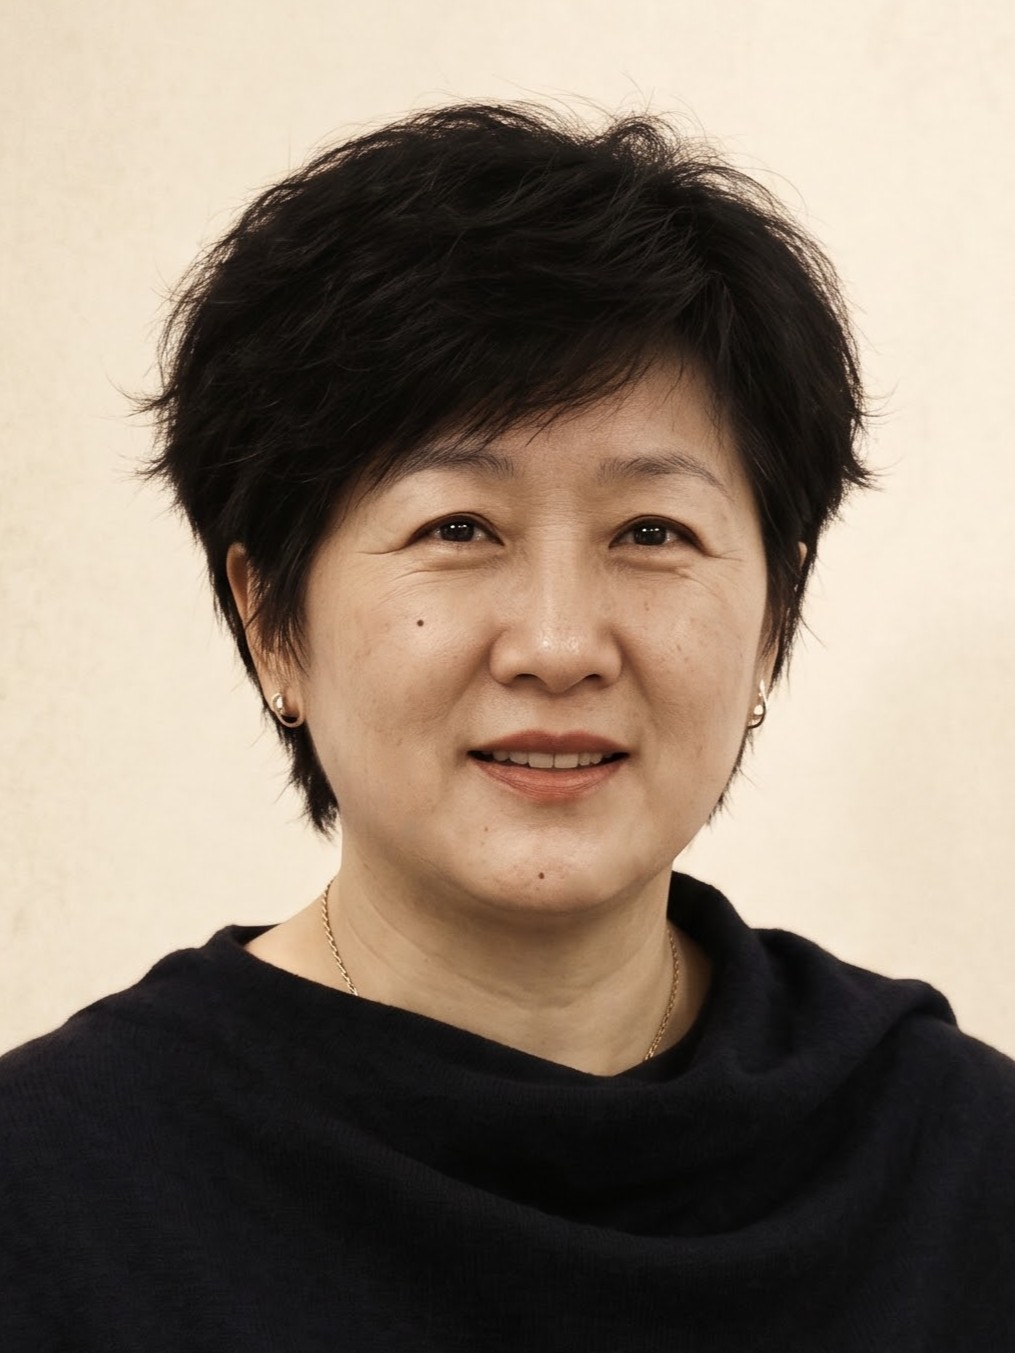
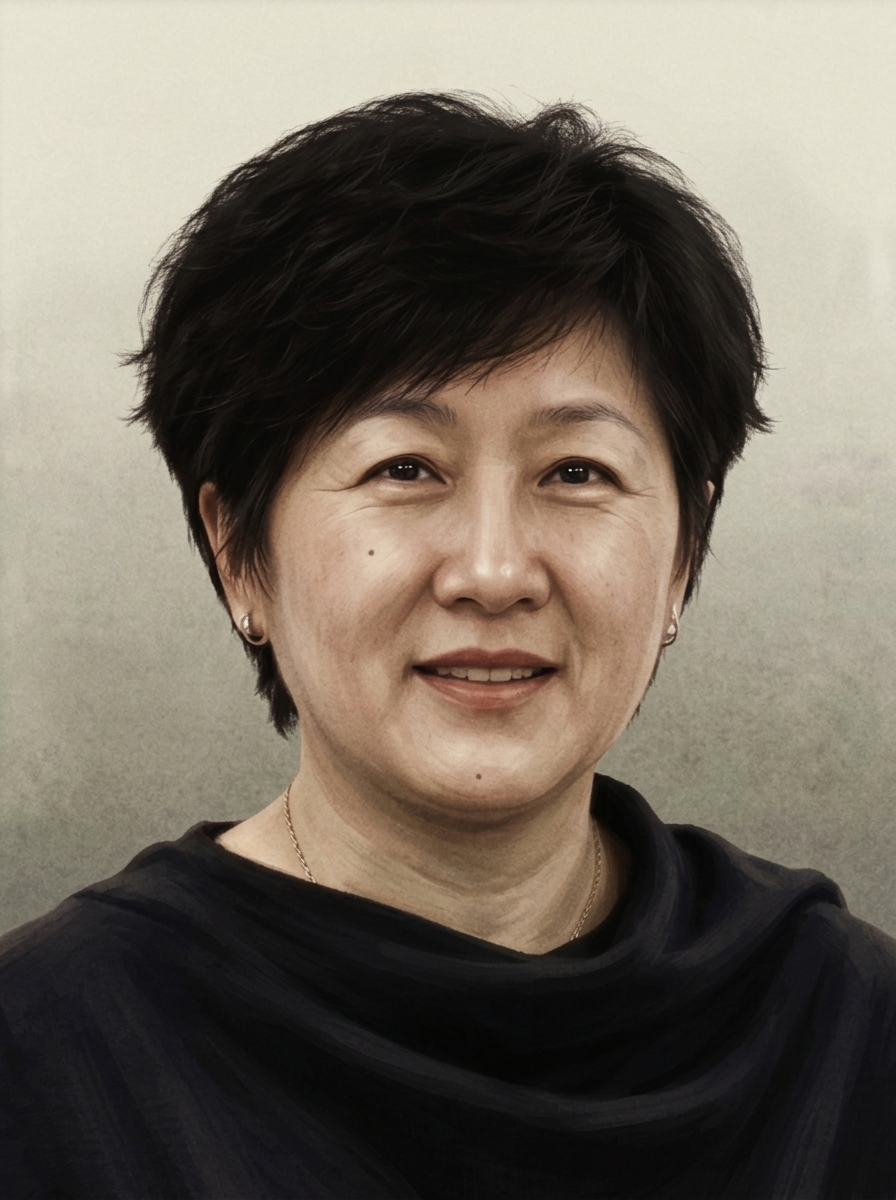
art: integrate updated portraits and campus loading artwork

diff --git a/src/config/localPortraits.ts b/src/config/localPortraits.ts
@@ -1,6 +1,6 @@
 const fengAnbao = new URL('../../art/人像/封安宝.png', import.meta.url).href;
 const wangZhaokai = new URL('../../art/人像/王照凯4.png', import.meta.url).href;
-const panRenyue = new URL('../../art/人像/潘仁越5.png', import.meta.url).href;
+const panRenyue = new URL('../../art/人像/潘仁越.jpg', import.meta.url).href;
 const luBohan = new URL('../../art/人像/吕波汉.png', import.meta.url).href;
 const gouxiong = new URL('../../art/人像/狗熊2.png', import.meta.url).href;
 const haoBang = new URL('../../art/人像/豪邦.png', import.meta.url).href;
@@ -13,10 +13,10 @@ const zhouHongbing = new URL('../../art/人像/周鸿斌.png', import.meta.url).
 const xuWenfeng = new URL('../../art/人像/许文峰.png', import.meta.url).href;
 const caiJuntai = new URL('../../art/人像/蔡君泰.png', import.meta.url).href;
 const liXutong = new URL('../../art/人像/黎旭同.png', import.meta.url).href;
-const chenDong = new URL('../../art/人像/陈栋.jpeg', import.meta.url).href;
+const chenDong = new URL('../../art/人像/陈栋3.jpg', import.meta.url).href;
 const zhouChen = new URL('../../art/人像/周晨.jpg', import.meta.url).href;
 const youGuanglei = new URL('../../art/人像/尤光雷.jpg', import.meta.url).href;
-const jingZhen = new URL('../../art/人像/靖珍.jpg', import.meta.url).href;
+const jingZhen = new URL('../../art/人像/靖珍2.jpg', import.meta.url).href;
 const zhangChun = new URL('../../art/人像/张春.jpg', import.meta.url).href;
 const classified = new URL('../assets/portrait-classified.svg', import.meta.url).href;
 const jidiPartner = new URL('../assets/portraits/jidi-partner.svg', import.meta.url).href;
@@ -26,6 +26,7 @@ const jidiAnalyst = new URL('../assets/portraits/jidi-analyst.svg', import.meta.
 
 /** 本地肖像是人物身份的唯一来源；未核实身份的条目显示档案占位。 */
 export const LOCAL_PORTRAIT_URLS: Record<string, string> = {
+  leader_chen_dong: chenDong,
   leader_feng_anbao: fengAnbao,
   leader_wang_zhaokai: wangZhaokai,
   leader_pan_renyue: panRenyue,

diff --git a/tests/artGallery.test.ts b/tests/artGallery.test.ts
@@ -74,7 +74,7 @@ test('old save route history and existing ending archive retain earned artwork',
 
 test('unlock is once per device across saves, new games and repeated React effects', () => {
   const storage = memoryStorage();
-  assert.equal(unlockEarnedArtwork(progress(), storage, 1000).length, 4);
+  assert.equal(unlockEarnedArtwork(progress(), storage, 1000).length, ARTWORKS.filter(work => work.opening).length);
   assert.equal(unlockEarnedArtwork(progress(), storage, 2000).length, 0);
   assert.deepEqual(unlockEarnedArtwork(progress({ currentFocusTree: 'treeB' }), storage, 3000).map(work => work.name), ['特级教师', '保温杯与红批']);
   assert.equal(unlockEarnedArtwork(progress(), storage, 4000).length, 0);
@@ -83,7 +83,7 @@ test('unlock is once per device across saves, new games and repeated React effec
 
 test('unavailable/quota-full storage preserves session progress without duplicate popups', () => {
   const storage = memoryStorage({}, true);
-  assert.equal(unlockEarnedArtwork(progress(), storage, 1000).length, 4);
+  assert.equal(unlockEarnedArtwork(progress(), storage, 1000).length, ARTWORKS.filter(work => work.opening).length);
   assert.equal(unlockEarnedArtwork(progress(), storage, 2000).length, 0);
   assert.equal(Object.keys(getArtUnlocks(storage)).length, ARTWORKS.filter(work => work.scenery || work.opening).length);
   const broken = memoryStorage({ [ART_UNLOCK_KEY]: 'not json' });

diff --git a/tests/artCatalog.test.ts b/tests/artCatalog.test.ts
@@ -39,13 +39,13 @@ test('new cabinet portraits and explicitly labelled dossier cards are bundled', 
 });
 
 test('all supplied loading art is optimized and every local super-event scene exists', () => {
-  const originals = readdirSync(join(root, 'art/载入图')).filter(name => name.endsWith('.png'));
+  const originals = readdirSync(join(root, 'art/载入图')).filter(name => /\.(png|jpe?g|webp)$/i.test(name));
   const optimized = readdirSync(join(root, 'src/assets/loading')).filter(name => name.endsWith('.webp'));
   assert.equal(optimized.length, originals.length);
   assert.equal(LOADING_ART_URLS.length, originals.length + Object.keys(ENDING_CG).length);
   for (const url of LOADING_ART_URLS) assert.ok(existsSync(fileURLToPath(url)));
   for (const url of [ASSET_URLS.ui_game_logo, ASSET_URLS.ui_studio_logo]) assert.ok(existsSync(fileURLToPath(url)));
-  for (const name of originals) assert.ok(optimized.includes(name.replace(/\.png$/, '.webp')));
+  for (const name of originals) assert.ok(optimized.includes(name.replace(/\.(png|jpe?g|webp)$/i, '.webp')));
 
   const config = readFileSync(join(root, 'src/config/assets.ts'), 'utf8');
   for (const match of config.matchAll(/superevent_[^:]+:\s*loadingArt\('([^']+)'\)/g)) {

diff --git a/src/data/artGallery.ts b/src/data/artGallery.ts
@@ -16,6 +16,9 @@ export interface Artwork {
 }
 
 export const ARTWORKS: Artwork[] = [
+  { name:'合一足球', route:'校园', note:'校园足球 · 绿茵时光', unlockHint:'初始开放', scenery:true },
+  { name:'陈栋与封安宝', route:'序章', note:'陈栋与封安宝 · 校园旧影', unlockHint:'体验序章', opening:true },
+  { name:'陈栋与封安宝2', route:'序章', note:'校友座谈 · 陈栋与封安宝', unlockHint:'体验序章', opening:true },
   { name: '滨湖晨光', route: '校园', note: '滨湖校门 · 秋晨', unlockHint: '初始开放', scenery: true },
   { name: '端馥晚照', route: '校园', note: '端馥堂 · 放学之后', unlockHint: '初始开放', scenery: true },
   { name: '雨过校门', route: '校园', note: '滨湖校门 · 雨后的归途', unlockHint: '初始开放', scenery: true },

diff --git a/src/components/StrategicArt.tsx b/src/components/StrategicArt.tsx
@@ -23,7 +23,7 @@ const spiritBackgroundByKind: Record<ArtKind, string> = {
 const PORTRAIT_FOCUS: Record<string, string> = {
   start_2023: new URL('../../art/人像/封安宝.png', import.meta.url).href,
   declare_indep: new URL('../../art/人像/王照凯4.png', import.meta.url).href,
-  pan_takeover: new URL('../../art/人像/潘仁越5.png', import.meta.url).href,
+  pan_takeover: new URL('../../art/人像/潘仁越.jpg', import.meta.url).href,
   true_left_consolidation: new URL('../../art/人像/王照凯4.png', import.meta.url).href,
   lu_bohan_start: new URL('../../art/人像/吕波汉.png', import.meta.url).href,
   haobang_start: new URL('../../art/人像/豪邦.png', import.meta.url).href,

diff --git a/src/config/loadingArtwork.ts b/src/config/loadingArtwork.ts
@@ -2,6 +2,9 @@
 import { ENDING_CG } from './endingCgAssets';
 export const LOADING_ART: Record<string, string> = {
   ...ENDING_CG,
+  "合一足球": new URL("../assets/loading/合一足球.webp", import.meta.url).href,
+  "陈栋与封安宝": new URL("../assets/loading/陈栋与封安宝.webp", import.meta.url).href,
+  "陈栋与封安宝2": new URL("../assets/loading/陈栋与封安宝2.webp", import.meta.url).href,
   "B3夜读": new URL("../assets/loading/B3夜读.webp", import.meta.url).href,
   "B3革命": new URL("../assets/loading/B3革命.webp", import.meta.url).href,
   "价格牌下的风暴": new URL("../assets/loading/价格牌下的风暴.webp", import.meta.url).href,

diff --git a/scripts/build_loading_art.py b/scripts/build_loading_art.py
@@ -12,7 +12,7 @@ source = Path('art/载入图')
 output = Path('src/assets/loading')
 output.mkdir(parents=True, exist_ok=True)
 
-for image_path in sorted(source.glob('*.png')):
+for image_path in sorted(path for path in source.iterdir() if path.suffix.lower() in {'.png', '.jpg', '.jpeg', '.webp'}):
     with Image.open(image_path) as image:
         image = ImageOps.exif_transpose(image).convert('RGB')
         image.thumbnail((1920, 1200), Image.Resampling.LANCZOS)

diff --git a/progress.md b/progress.md
@@ -19,3 +19,7 @@
 进一步扩大国策图形至232/248px，节点176×156；精神图形94×82，栏内滚动保留下方法案空间。用户PV完整251秒1080p，原音轨，导出42段共143MiB，点击后加载并暂停背景音乐；拖动、片尾、重播、设置音量及关闭恢复音乐均经真实浏览器验证。
 
 复现办公桌无事件编号时的startsWith异常导致React根页面清空；修复输入、弹窗和旧存档兼容，并恢复保存待确认事务的原效果。六项日常事务、扣费、每日限制、特殊提示与旧存档确认通过；无浏览器页面错误。150项测试、809素材引用、类型、版本与构建通过，产物812文件，最大片段3.64MiB，全部文件最大7.57MiB。保留原剧情、收益、节奏、冷却和路线条件。
+
+## 2026-10-29 v9.5.2
+
+实装根目录art更新的5张人像与3张载入CG，统一潘仁越的领导人与国策肖像，陈栋与靖珍指向新版本；周晨、张春更新原文件。新增CG收藏遵循原解锁与70/30载入规则。原图保留，CG导出WebP并核对解码。修正素材构建与检查遗漏JPG输入、收藏测试固定序章数量的问题。150项测试通过，未更改剧情、机制、路线与指南条件。

diff --git a/CHANGELOG.md b/CHANGELOG.md
@@ -1,3 +1,8 @@
+## v9.5.2 — 校园旧影与新肖像（2026-10-29）
+
+- 更新潘仁越、陈栋、周晨、靖珍与张春的本地人物肖像，统一领导人、顾问及国策中的相关引用。
+- 新增合一足球及两张陈栋与封安宝载入CG，同步美术室；足球图初始开放，校园旧影随序章解锁，保留70%已解锁、30%未解锁的抽取规则。
+
 ## v9.5.1 — 徽记放大与放映室（2026-10-25）
 
 - 进一步放大国策与国家精神徽记；国策状态和天数移至标题下方，精神栏数量较多时可滚动查看。

diff --git a/README.md b/README.md
@@ -13,6 +13,8 @@
 
 ## v9.5 · 徽记与终章
 
+v9.5.2 更新了潘仁越、陈栋、周晨、靖珍和张春的肖像，并收录《合一足球》与两幅校园旧影。可在载入画面与美术室中观看。
+
 国策、国家精神与路线机制采用同一套绘画徽记：银蓝的选票、深红的书册、旧铜的互助之手、及第的核算器物，各有自己的形状与材质。
 
 合一之光也有了随校园变化的动态国家精神徽章：不同路线的建筑、门禁、人流与窗灯，会在国家界面里缩成一枚校园剪影。
